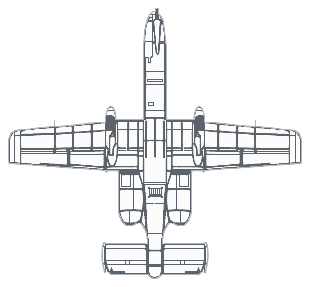
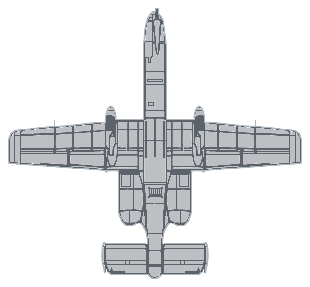
fix: the faint aircraft get their bodies back, and four PNGs lose stray green (v2.01)
The complaint was the colour. The colour was not the problem. Six of these
are hairline outlines with no body, so on a dark ground they read as ghostly
wireframes, while the ones that always looked right, the B-2 and the F-117
and the SR-71, carry a semi-transparent mass under their detail lines. The
numbers said it plainly: the B-52's ink is 80 percent fully opaque and there
is almost none of it, against 10,639 midtone pixels of fill on the B-2.

So the fix fills the region enclosed by each aircraft's own outline and
leaves every line exactly as it was. Nothing is drawn that was not there.
Checked for flood leaks, which would show as a body near zero if an outline
had a gap: bodies came out between 8.8 and 23.6 percent, all closed. B-52,
F-104, MiG-25, A-10, F-15, B-1, F-117.

Worth recording for the next one: this set is built from 5d636a and aebe bd,
not the 8f959c the newer art uses.

GREEN BAKED INTO FOUR FILES, which nobody asked about. Leftover annotation
from the original recolouring pass sitting inside the artwork: 4,388 pixels
on the F-14, 1,105 on the B-1, 255 on the Constellation, 35 on the F-117.
Visible on the B-1's tail if you look. All cleared, then all 23 art files
scanned to confirm none remain. The F-14 and the Constellation got the green
removed and nothing else, since both already read as solid; the F-14 is
outline-only like the six but at 899x900 its lines stay crisp.

Caught on myself: the bulk artNote update also hit the B-2, making it claim
[…]

Changed region(s): [[0.029, 0.0557, 0.9871, 0.9756], [0.3484, 0.3624, 0.3774, 0.4181]]

diff --git a/site/index.html b/site/index.html
@@ -1181,7 +1181,7 @@ a:focus-visible,button:focus-visible{outline:2px solid var(--green);outline-offs
   </div>
   <div class="footer-bottom">
     <span>© 2026 Engineering Community</span>
-    <span class="footer-stamp">SHANNON v2.00 / BUILT 2026 / 11 LINES LIVE, L-01 THROUGH L-11</span>
+    <span class="footer-stamp">SHANNON v2.01 / BUILT 2026 / 11 LINES LIVE, L-01 THROUGH L-11</span>
   </div>
 </footer>
 
@@ -1290,7 +1290,7 @@ const AIRCRAFT = [
   {id:"b-52", name:"B-52 Stratofortress", year:1952, ff:"Apr 1952", origin:"United States", role:"bomber", status:"covered",
    hook:"THE B-1 AND B-2 WILL RETIRE IN THE 2030S. THE BOEING B-52 STRATOFORTRESS, FIRST FLIGHT 1952, WILL FLY INTO THE 2050S.",
    artCredit:"US Army FM 44-80, public domain.",
-   artNote:"Manual drawing, recolored, not redrawn. Span measured on the drawing.",
+   artNote:"Manual drawing, recolored and its silhouette filled, not redrawn. The outline was too faint to read on a dark ground; nothing was added inside it. Span measured on the drawing.",
    art:`<svg viewBox="0 0 267 265" xmlns="http://www.w3.org/2000/svg">
   <image href="art/b-52.png" x="0" y="0" width="267" height="231.3"/>
   <g stroke="#10b981" fill="none">
@@ -1312,7 +1312,7 @@ const AIRCRAFT = [
    ask:"Flew it, or kept it flying. It earned some hard nicknames. Were they fair?",
    hook:"The F-104's wing was 3.36 percent thick, too thin to carry fuel, sharp enough to cut its ground crews. It was exactly what pilots had asked for.",
    artCredit:"US Army FM 44-80, public domain.",
-   artNote:"Manual drawing, recolored, not redrawn. Dimension line to the drawing's scale, wingtip stores excluded.",
+   artNote:"Manual drawing, recolored and its silhouette filled, not redrawn. The outline was too faint to read on a dark ground; nothing was added inside it. Dimension line to the drawing's scale, wingtip stores excluded.",
    art:`<svg viewBox="0 0 267 314" xmlns="http://www.w3.org/2000/svg">
   <image href="art/f-104.png" x="70.8" y="0" width="125.3" height="280"/>
   <g stroke="#10b981" fill="none">
@@ -1417,7 +1417,7 @@ const AIRCRAFT = [
   {id:"mig-25", name:"MiG-25 Foxbat", year:1964, ff:"Mar 1964", origin:"Soviet Union", role:"fighter", status:"covered",
    hook:"THE SOVIETS BUILT A MACH 2.8 JET OUT OF STEEL AND VACUUM TUBES. THE PENTAGON SPENT YEARS THINKING IT WAS TITANIUM AND TRANSISTORS.",
    artCredit:"US Army FM 44-80, public domain.",
-   artNote:"Manual drawing, recolored, not redrawn. Span measured on the drawing.",
+   artNote:"Manual drawing, recolored and its silhouette filled, not redrawn. The outline was too faint to read on a dark ground; nothing was added inside it. Span measured on the drawing.",
    art:`<svg viewBox="0 0 267 314" xmlns="http://www.w3.org/2000/svg">
   <image href="art/mig-25.png" x="46.4" y="0" width="174.2" height="280"/>
   <g stroke="#10b981" fill="none">
@@ -1462,7 +1462,7 @@ const AIRCRAFT = [
   {id:"a-10", name:"A-10 Thunderbolt II", year:1972, ff:"May 1972", origin:"United States", role:"attack", status:"covered",
    hook:"THE GAU-8 CANNON GENERATES ~10,000 POUNDS OF RECOIL, MORE THAN A SINGLE A-10 ENGINE'S THRUST. TO KEEP THE FIRING BARREL ON CENTERLINE, FAIRCHILD OFFSET THE NOSE GEAR TO MAKE ROOM FOR THE GUN.",
    artCredit:"US Army FM 44-80, public domain.",
-   artNote:"Manual drawing, recolored, not redrawn. Span measured on the drawing.",
+   artNote:"Manual drawing, recolored and its silhouette filled, not redrawn. The outline was too faint to read on a dark ground; nothing was added inside it. Span measured on the drawing.",
    art:`<svg viewBox="0 0 267 281" xmlns="http://www.w3.org/2000/svg">
   <image href="art/a-10.png" x="0" y="0" width="267" height="247.2"/>
   <g stroke="#10b981" fill="none">
@@ -1482,7 +1482,7 @@ const AIRCRAFT = [
   {id:"f-15", name:"F-15 Eagle", year:1972, ff:"Jul 1972", origin:"United States", role:"fighter", status:"covered",
    hook:"IN 1968, THE US AIR FORCE ASKED FOR A FIGHTER TO BEAT A SOVIET SUPERFIGHTER AT ANY COST. MCDONNELL DOUGLAS'S ANSWER BECAME THE F-15. THE THREAT WAS NEVER WHAT THEY FEARED.",
    artCredit:"US Army FM 44-80, public domain.",
-   artNote:"Manual drawing, recolored, not redrawn. Span measured on the drawing.",
+   artNote:"Manual drawing, recolored and its silhouette filled, not redrawn. The outline was too faint to read on a dark ground; nothing was added inside it. Span measured on the drawing.",
    art:`<svg viewBox="0 0 267 314" xmlns="http://www.w3.org/2000/svg">
   <image href="art/f-15.png" x="35.6" y="0" width="195.9" height="280"/>
   <g stroke="#10b981" fill="none">
@@ -1501,7 +1501,7 @@ const AIRCRAFT = [
   {id:"b-1", name:"B-1 Lancer", year:1974, ff:"Dec 1974 (B-1A)", origin:"United States", role:"bomber", status:"covered",
    hook:"THE B-1A BOMBER WAS BUILT TO OUTRUN SOVIET DEFENSES AT MACH 2.2. THE B-1B THAT REPLACED IT TOPS OUT AT MACH 1.25. THE AIR FORCE MADE IT SLOWER ON PURPOSE.",
    artCredit:"US Army FM 44-80, public domain.",
-   artNote:"Manual drawing of the B-1B, recolored, not redrawn. Dimension lines to the drawing's scale.",
+   artNote:"Manual drawing of the B-1B, recolored and its silhouette filled, not redrawn. The outline was too faint to read on a dark ground; nothing was added inside it. Dimension lines to the drawing's scale.",
    art:`<svg viewBox="0 0 267 340" xmlns="http://www.w3.org/2000/svg">
   <image href="art/b-1.png" x="5.1" y="0" width="256.9" height="280"/>
   <g stroke="#10b981" fill="none">
@@ -1527,7 +1527,7 @@ const AIRCRAFT = [
   {id:"f-117", name:"F-117 Nighthawk", year:1981, ff:"Jun 1981", origin:"United States", role:"attack", status:"covered",
    hook:"IN 1962, THE SOVIETS LET A SCIENTIST PUBLISH HIS \"WORTHLESS\" PAPER ON RADAR DIFFRACTION. LOCKHEED USED IT TO DEVELOP THE F-117.",
    artCredit:"US Army FM 44-80, public domain.",
-   artNote:"Manual drawing, recolored, not redrawn. Span measured on the drawing.",
+   artNote:"Manual drawing, recolored and its silhouette filled, not redrawn. The outline was too faint to read on a dark ground; nothing was added inside it. Span measured on the drawing.",
    art:`<svg viewBox="0 0 267 320" xmlns="http://www.w3.org/2000/svg">
   <image href="art/f-117.png" x="34" y="0" width="198" height="292"/>
   <g stroke="#10b981" fill="none">
